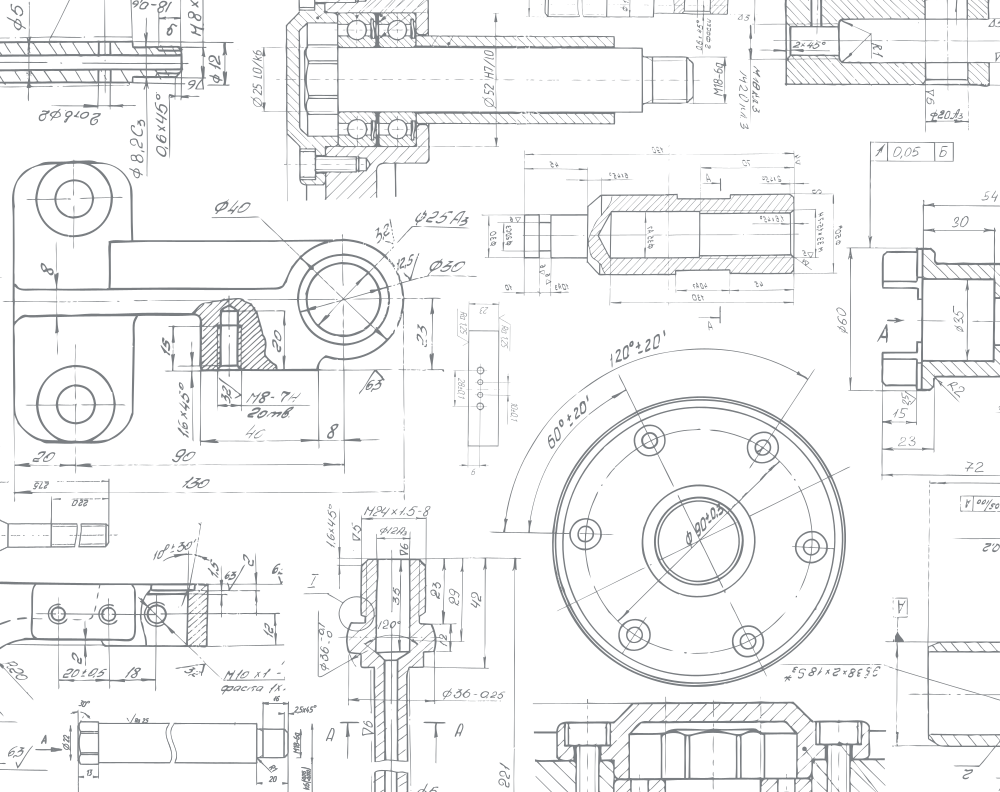
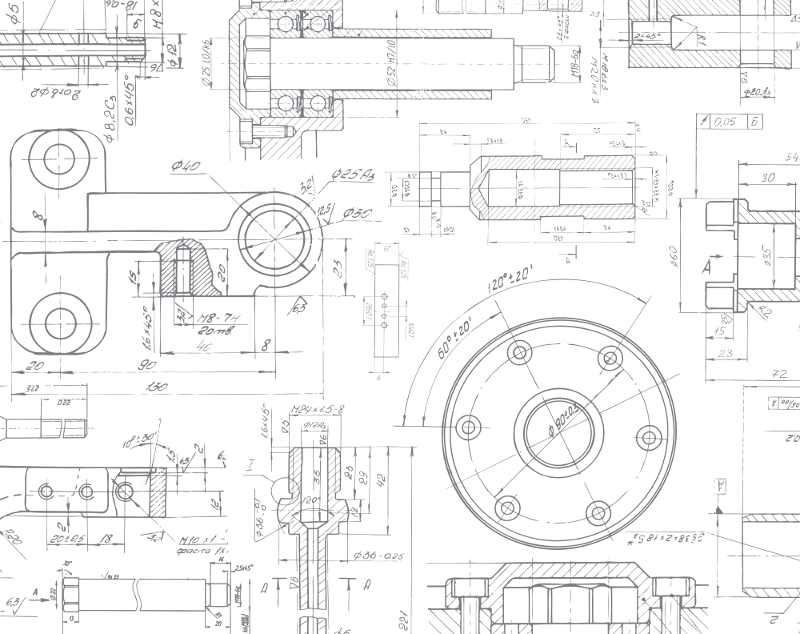
scale down images cont.

diff --git a/index.html b/index.html
@@ -304,13 +304,13 @@
                             <option value="friends" selected>Bearing</option>
                             <option value="search">Bearing Housing</option>
                             <option value="ad">Chains</option>
-                            <option value="other">Customized or Others</option>
+                            <option value="other">Others</option>
                         </select>
                     </div>
                 </div>
                 <div class="row">
                     <div class="col span-1-of-3">
-                        <label>Newsletter?</label>
+                        <label>Engineer Consultation?</label>
                     </div>
                     <div class="col span-2-of-3">
                         <input type="checkbox" name="news" id="news" checked> Yes, please
